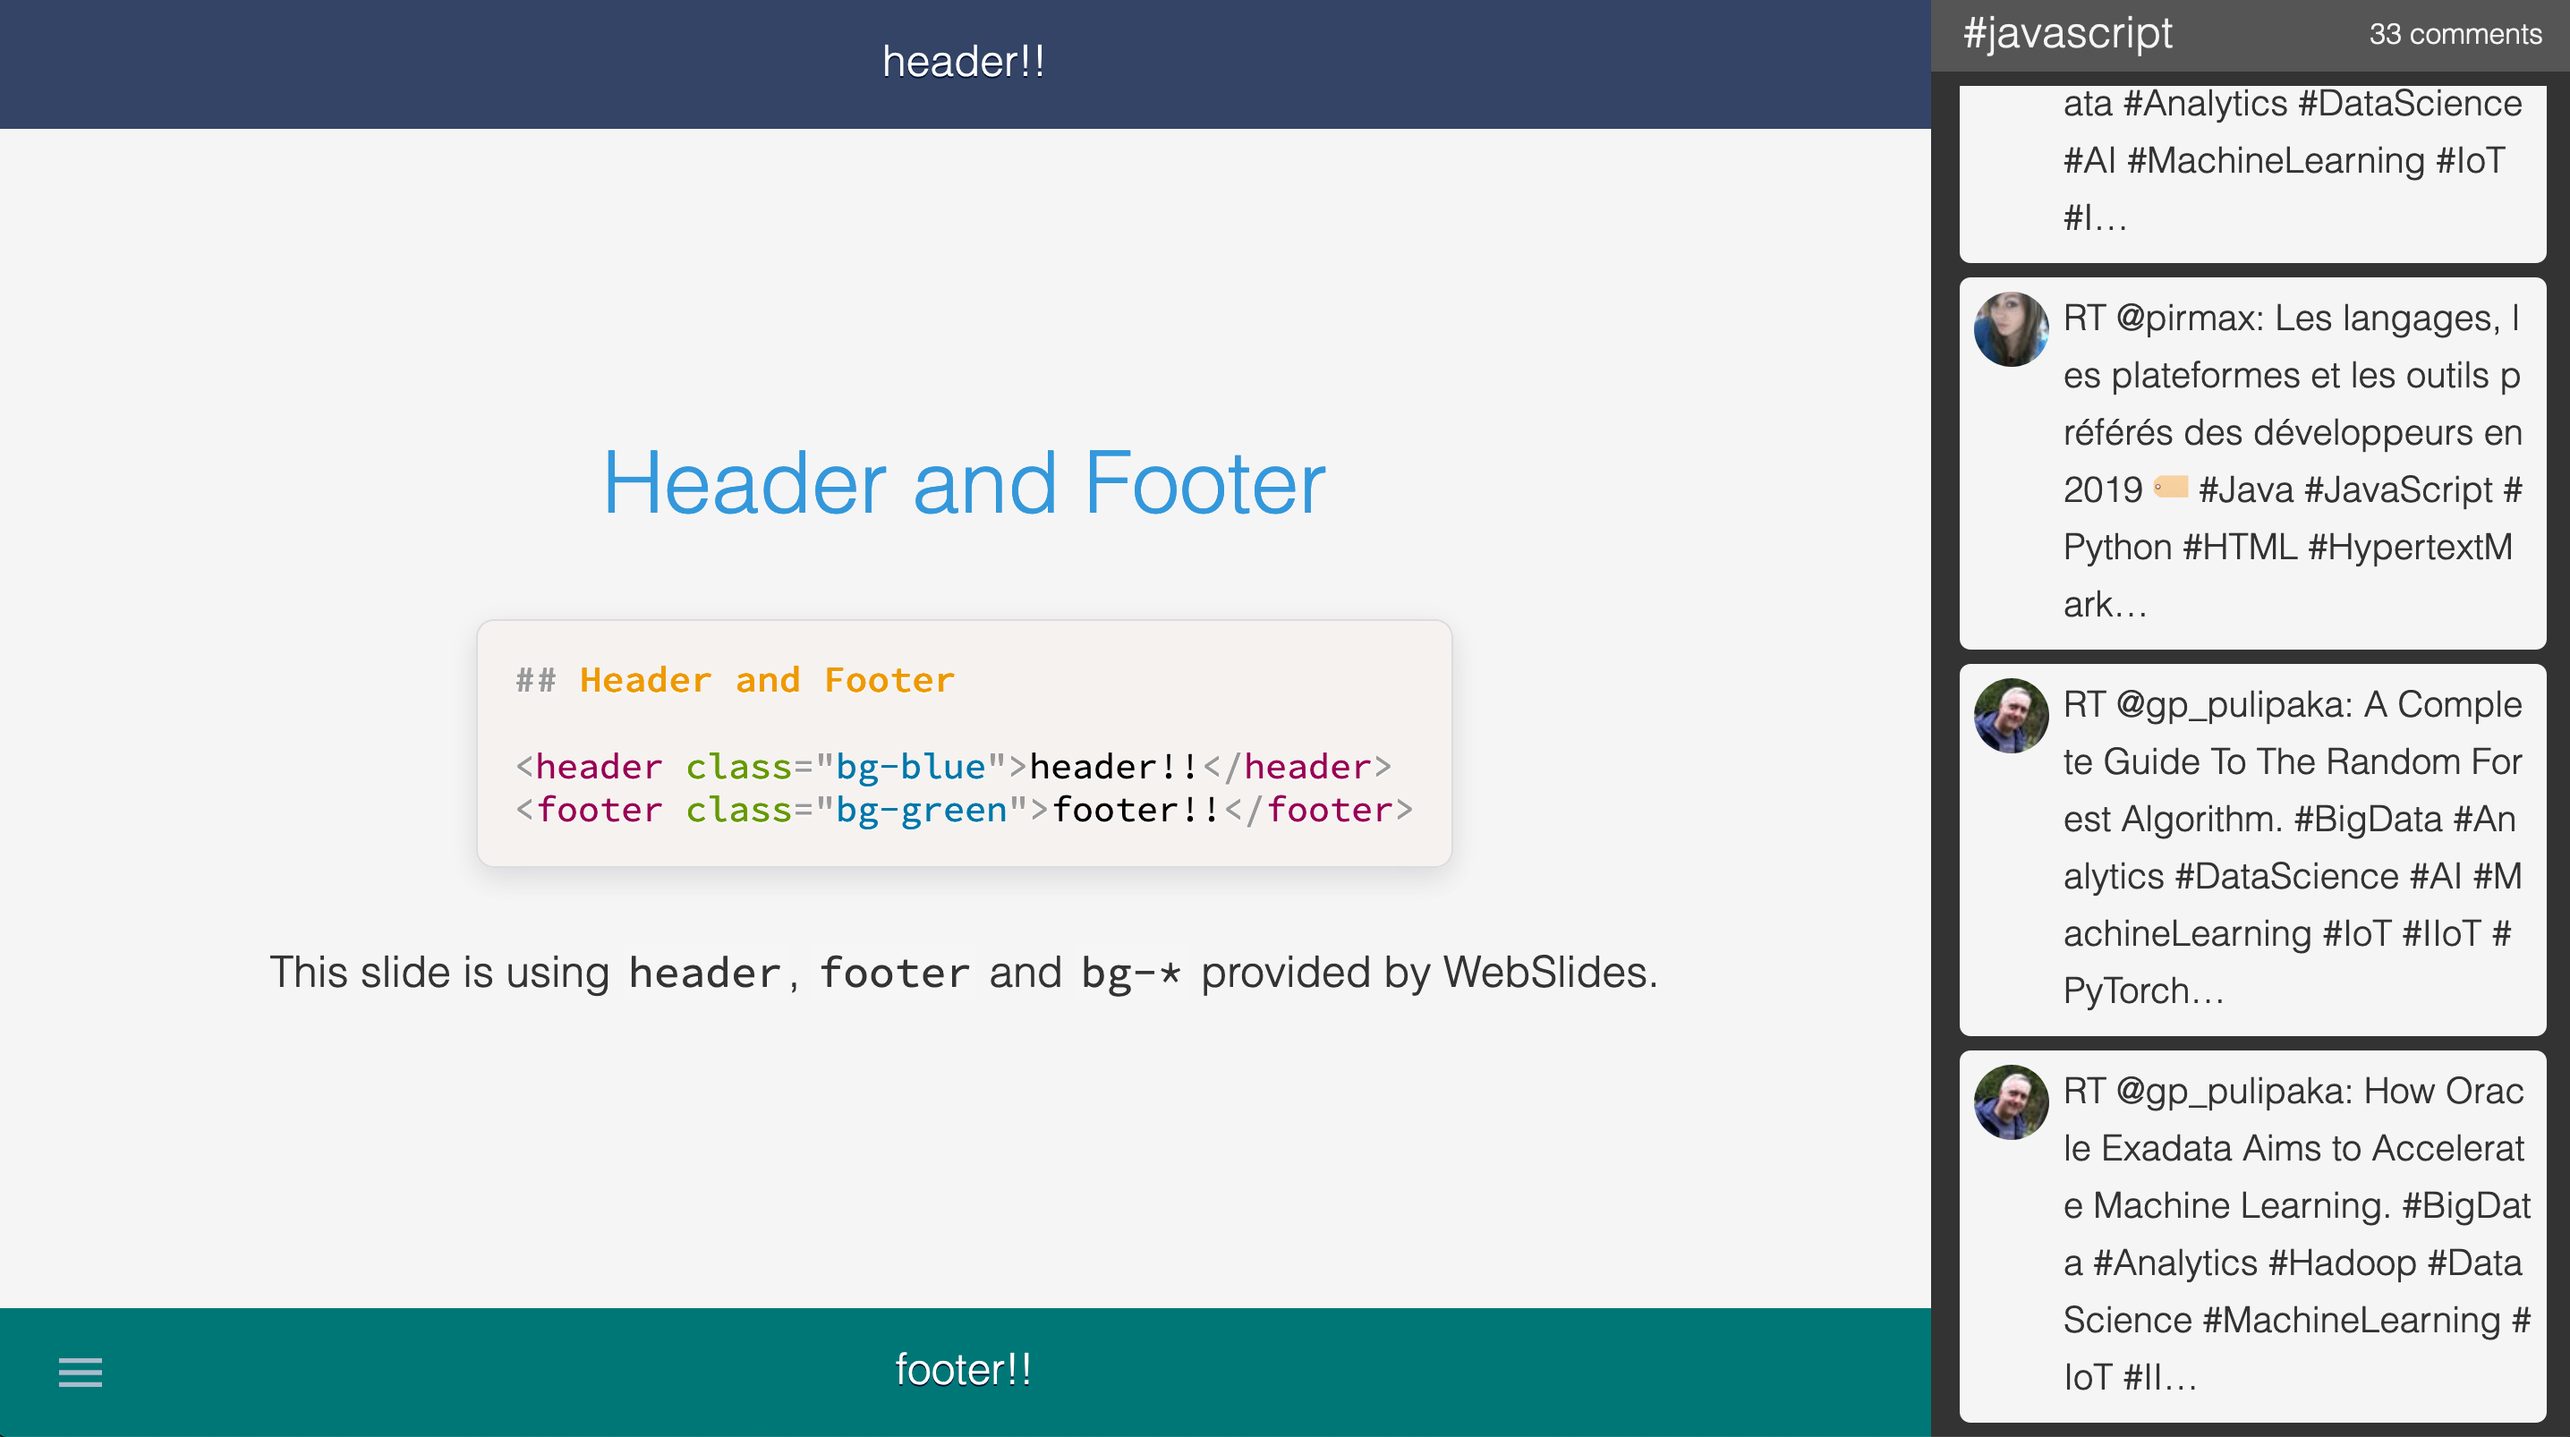
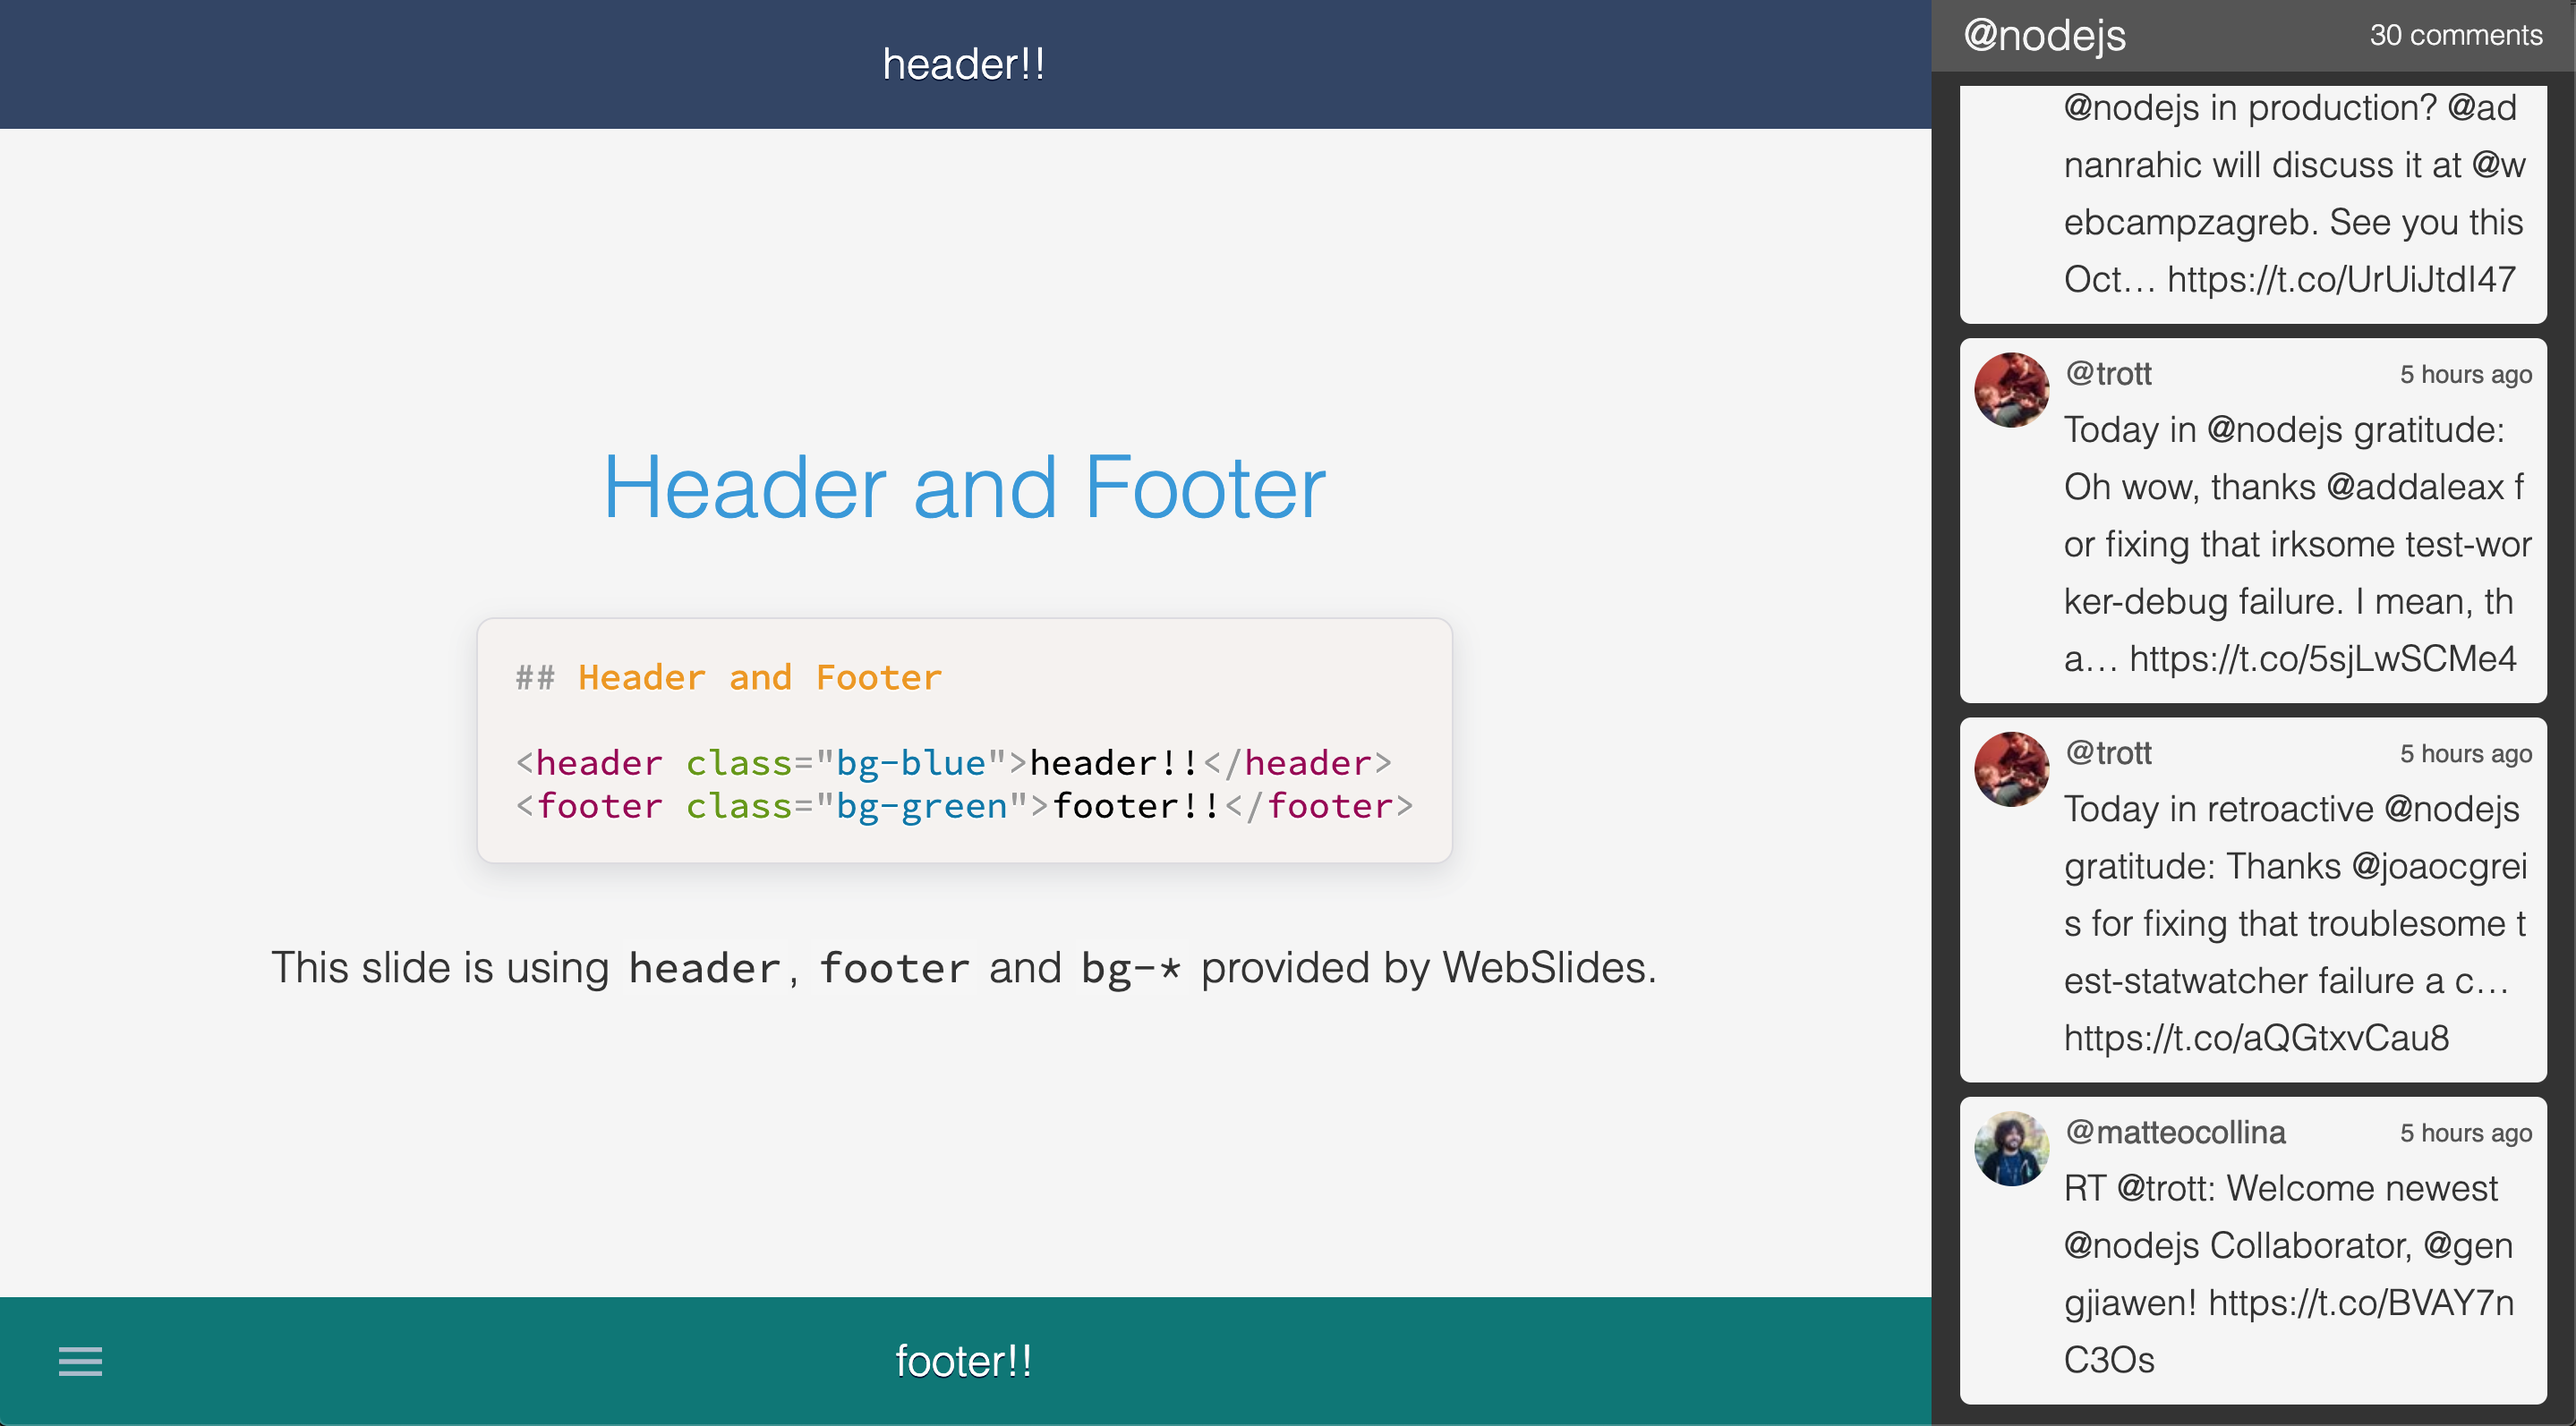
chore(readme): update

diff --git a/README.md b/README.md
@@ -267,7 +267,7 @@ Also, this mode can run with Presenter Mode.
 # create .env
 $ npx fusuma init -s live
 # edit .env and add .env to .gitignore
-$ npx fusuma live -w '#javascript' # npx fusuma live --help
+$ npx fusuma live -w '@nodejs' # npx fusuma live --help
 # Also, you can deploy to other servers
 $ open http://localhost:3000
 ```
